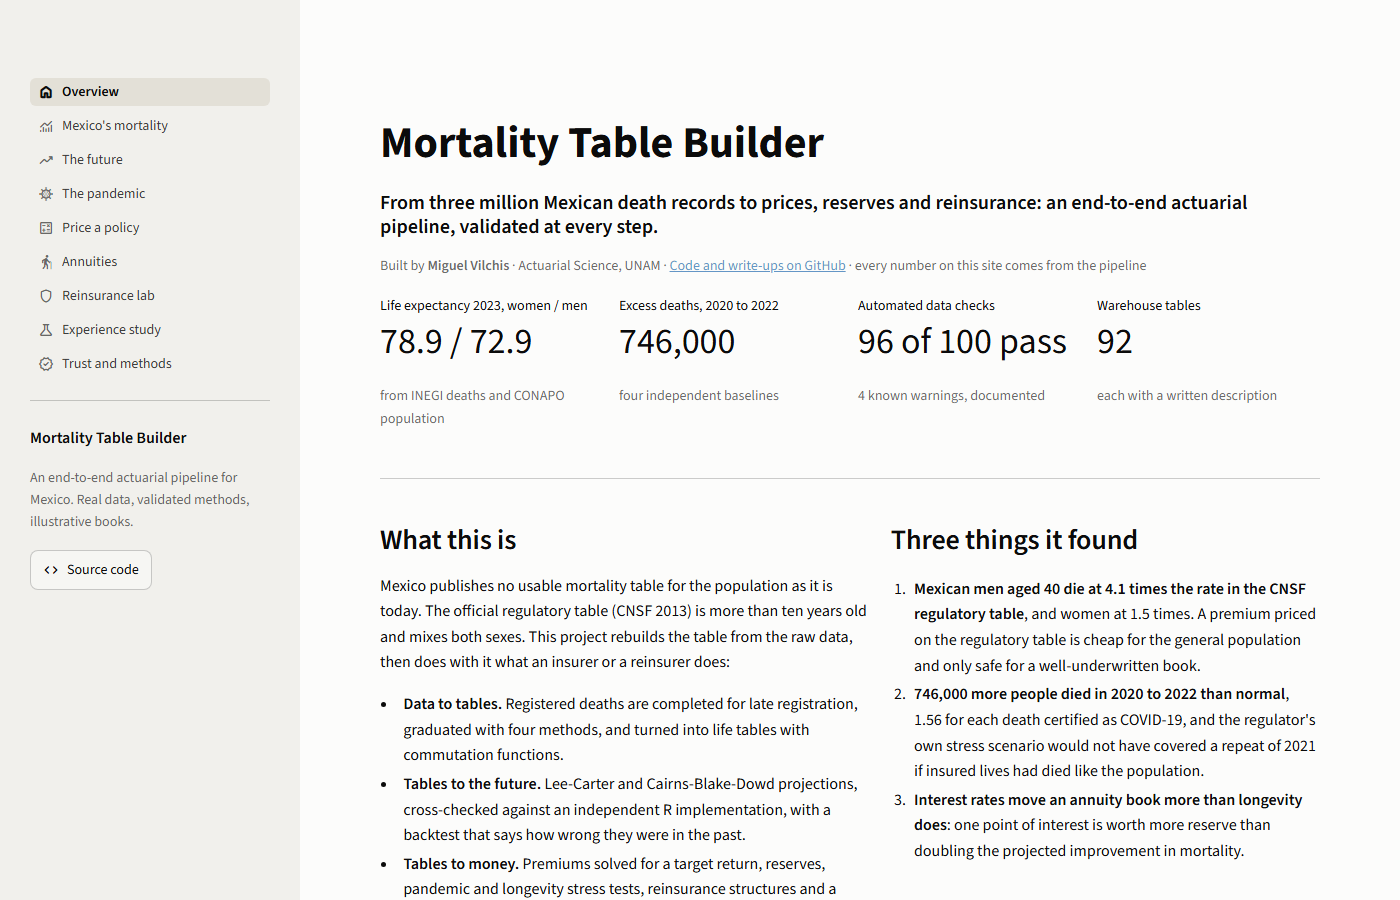
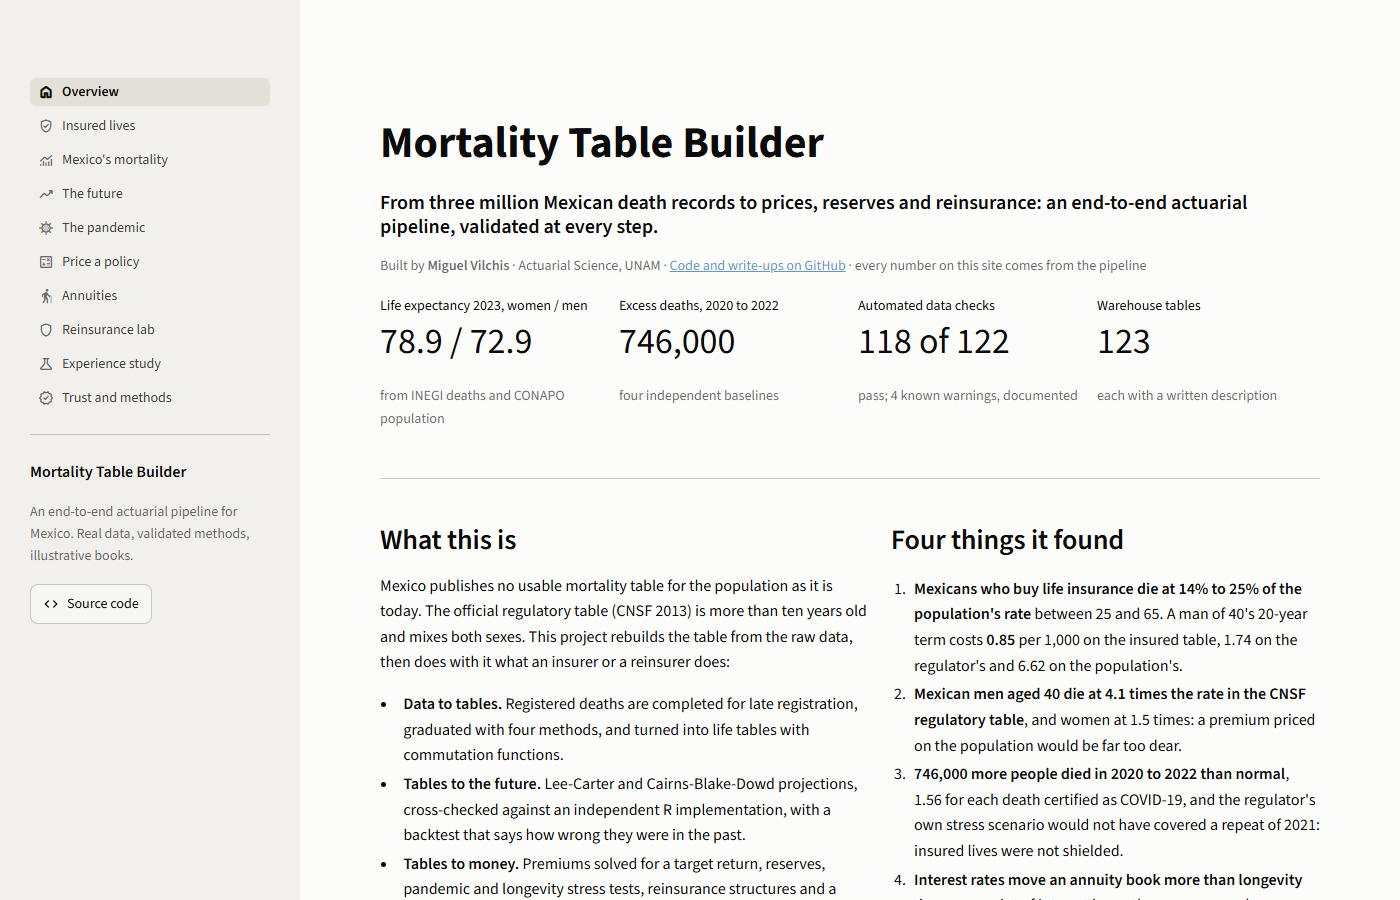
Dashboard: price on the insured basis by default, fix cut-off metrics, retake screenshots
The pricing lab keeps the statutory reserve on CNSF 2013 for insured bases, so it matches the stored premium table. Screenshots now include the Insured lives page.

diff --git a/app/views/price.py b/app/views/price.py
@@ -39,7 +39,15 @@ with st.container(border=True):
     )  # fmt: skip
     c5, c6, c7 = st.columns(3)
     labels = {k: v for k, v in pricing.BASES.items() if k in available}
-    price_basis = c5.selectbox("Priced on", list(labels), format_func=labels.get, index=0)
+    # version 2 prices quotes on the insured table; the regulator's table stays as the reference
+    if "cnsf" in labels:
+        labels["cnsf"] = "CNSF 2013 (the regulator's table, the version 1 basis)"
+    if "insured_prudent" in labels:
+        labels["insured_prudent"] = "Insured lives + margin (version 2 basis)"
+    default = list(labels).index("insured_prudent") if "insured_prudent" in labels else 0
+    price_basis = c5.selectbox("Priced on", list(labels), format_func=labels.get, index=default)
+    if price_basis.startswith("insured"):
+        c5.caption("The statutory reserve stays on CNSF 2013, as the regulator requires.")
     hurdle = c6.slider("Target return (IRR, %)", 5.0, 20.0, 10.0, 0.5) / 100
     invest = c7.slider("Investment return (%)", 2.0, 9.0, 5.0, 0.5) / 100
     with st.expander("Expense, commission and lapse assumptions (illustrative)"):
@@ -54,8 +62,13 @@ a = pricing.Assumptions(
     acquisition_pct=acq, commission_first=com, maintenance=float(maint),
 )  # fmt: skip
 q = available[price_basis](sex, age, term)
-premium = pricing.solve_premium(q, a)
-test = pricing.profit_test(q, premium, a, lapse_scale=lapse_scale)
+valuation = q  # the reserve is held on the pricing table, as in version 1
+if price_basis.startswith("insured") and "cnsf" in available:
+    valuation = available["cnsf"](
+        sex, age, term
+    )  # ...except the regulator's reserve stays on CNSF 2013
+premium = pricing.solve_premium(q, a, q_valuation=valuation)
+test = pricing.profit_test(q, premium, a, q_valuation=valuation, lapse_scale=lapse_scale)
 summ = pricing.summarise(test, hurdle)
 net = pricing.net_premium(q, a.valuation_interest, a.sum_assured)
 
@@ -135,14 +148,14 @@ with tab_adequacy:
     rows = []
     for key, label in labels.items():
         qb = available[key](sex, age, term)
-        t = pricing.profit_test(qb, premium, a, q_valuation=q, lapse_scale=lapse_scale)
+        t = pricing.profit_test(qb, premium, a, q_valuation=valuation, lapse_scale=lapse_scale)
         s = pricing.summarise(t, hurdle)
         rows.append(
             {
                 "basis": label,
                 "margin": s["margin"],
                 "irr": s["irr"],
-                "cushion": pricing.mortality_cushion(qb, premium, a, q_valuation=q),
+                "cushion": pricing.mortality_cushion(qb, premium, a, q_valuation=valuation),
             }
         )
     ad = np.array([r["margin"] for r in rows])

diff --git a/app/views/insured.py b/app/views/insured.py
@@ -22,8 +22,8 @@ ui.header(
     "Insured lives",
     "A mortality table for pricing quotes, built from what insurers actually experienced.",
     "The population table tells you how long Mexicans live. A quote is for someone who buys life "
-    "insurance: wealthier, underwritten, mostly urban. In Mexico that group dies at one fifth to "
-    "one seventh the population's rate, so the right table is not the population's, and not the "
+    "insurance: wealthier, underwritten, mostly urban. In Mexico that group dies at a seventh to "
+    "a quarter of the population's rate, so the right table is not the population's, and not the "
     "regulator's either.",
 )
 
@@ -62,9 +62,9 @@ with t_table:
     last = int(t.loc[t["source"] != "extended", "age"].max())
     ui.metric_row(
         [
-            ("Death rate at 40", f"{r40['qx'] * 1000:.2f} per 1,000", None),
-            ("Population", f"{r40['q_population'] * 1000:.2f} per 1,000", None),
-            ("CNSF 2013", f"{r40['q_cnsf2013'] * 1000:.2f} per 1,000", None),
+            ("Death rate at 40", f"{r40['qx'] * 1000:.2f}", "per 1,000 a year"),
+            ("Population", f"{r40['q_population'] * 1000:.2f}", "per 1,000 a year"),
+            ("CNSF 2013", f"{r40['q_cnsf2013'] * 1000:.2f}", "per 1,000 a year"),
             ("Share of the population's rate", f"{r40['ratio_population']:.0%}", None),
             ("Data support the table up to", f"age {last}", None),
         ]

diff --git a/app/views/home.py b/app/views/home.py
@@ -48,8 +48,8 @@ ui.metric_row(
         ),
         (
             "Automated data checks",
-            f"{int((checks['status'] == 'PASS').sum())} of {len(checks)} pass",
-            "4 known warnings, documented",
+            f"{int((checks['status'] == 'PASS').sum())} of {len(checks)}",
+            "pass; 4 known warnings, documented",
         ),
         ("Warehouse tables", f"{len(docs)}", "each with a written description"),
     ]

diff --git a/README.md b/README.md
@@ -76,18 +76,22 @@ Mexico's regulatory mortality table (CNSF 2013) is more than a decade old and mi
 | | |
 |---|---|
 | **Dashboard** | **[Open the live demo](https://mortality-table-builder.streamlit.app/)**. Ten pages, including **Insured lives**; four are live labs: price a policy, value a pension, design a reinsurance treaty, and run the experience study on **your own policy extract**. Locally: `uv run mortality app` |
-| **Report** | An 11-page methodology report with a Spanish executive summary. Every number in the text is computed from the data when it is rendered: [`reports/methodology.pdf`](reports/methodology.pdf) |
+| **Report** | A 13-page methodology report with a Spanish executive summary. Every number in the text is computed from the data when it is rendered: [`reports/methodology.pdf`](reports/methodology.pdf) |
 | **Excel workbook** | Life tables with **live commutation formulas** (Dx, Nx, Mx driven by one interest cell) and a premium calculator, checked against the Python code by an independent formula engine: [`reports/Mortality_Table_Builder.xlsx`](reports/Mortality_Table_Builder.xlsx) |
 | **Write-ups** | One document per step with method, results and limits: [`docs/`](docs/) |
 
 <table>
 <tr>
 <td width="50%"><img src="docs/img/app_overview.png" alt="Dashboard overview"></td>
-<td width="50%"><img src="docs/img/app_reinsurance.png" alt="Reinsurance lab"></td>
+<td width="50%"><img src="docs/img/app_insured.png" alt="Insured lives page"></td>
 </tr>
 <tr>
 <td width="50%"><img src="docs/img/app_pandemic.png" alt="The pandemic page"></td>
 <td width="50%"><img src="docs/img/app_price.png" alt="Pricing lab"></td>
+</tr>
+<tr>
+<td width="50%"><img src="docs/img/app_reinsurance.png" alt="Reinsurance lab"></td>
+<td width="50%"><img src="docs/img/app_experience.png" alt="Experience study"></td>
 </tr>
 </table>
 
@@ -350,7 +354,7 @@ Each step has its own write-up; these are the findings that matter most. Expand 
 
 - **Streamlit dashboard** (`uv run mortality app`): ten pages (the newest is **Insured lives**) over a shareable demo bundle built from an allow-list of derived tables; four live labs call the same engines the tests check; a Trust page lists all 122 data checks, the sources with checksums and the limits; the app is tested headlessly in CI.
 - **Excel workbook** (`uv run mortality export-excel`): lx, dx, Dx, Nx, Cx and Mx as live formulas driven by one interest cell, a premium calculator, a rate card and the stress results; recomputed by an independent formula engine in the tests and matched to the Python functions to 1e-9.
-- **Methodology report** ([PDF](reports/methodology.pdf), Quarto and Typst): 11 pages with a Spanish executive summary; every number in the text is computed from the data bundle when the report is rendered.
+- **Methodology report** ([PDF](reports/methodology.pdf), Quarto and Typst): 13 pages with a Spanish executive summary; every number in the text is computed from the data bundle when the report is rendered.
 
 [Deployment guide](docs/deploy.md)
 </details>

diff --git a/CHANGELOG.md b/CHANGELOG.md
@@ -4,6 +4,17 @@ All notable changes to this project are listed here. The format follows
 [Keep a Changelog](https://keepachangelog.com/) and the versions follow
 [Semantic Versioning](https://semver.org/).
 
+## [Unreleased]
+
+### Changed
+- The pricing lab now defaults to the insured-lives basis with its margin (the version 2 pricing
+  basis), keeping the statutory reserve on CNSF 2013, so it reproduces the stored premium table.
+- Dashboard screenshots retaken, with the Insured lives page added.
+
+### Fixed
+- Cut-off metric values on the overview and Insured lives pages, and the "one fifth to one
+  seventh" wording, which did not match the 14% to 25% found.
+
 ## [2.0.0] - 2026-10-22
 
 **The insured-lives table**: a mortality table for pricing quotes, built from the CNSF's own
